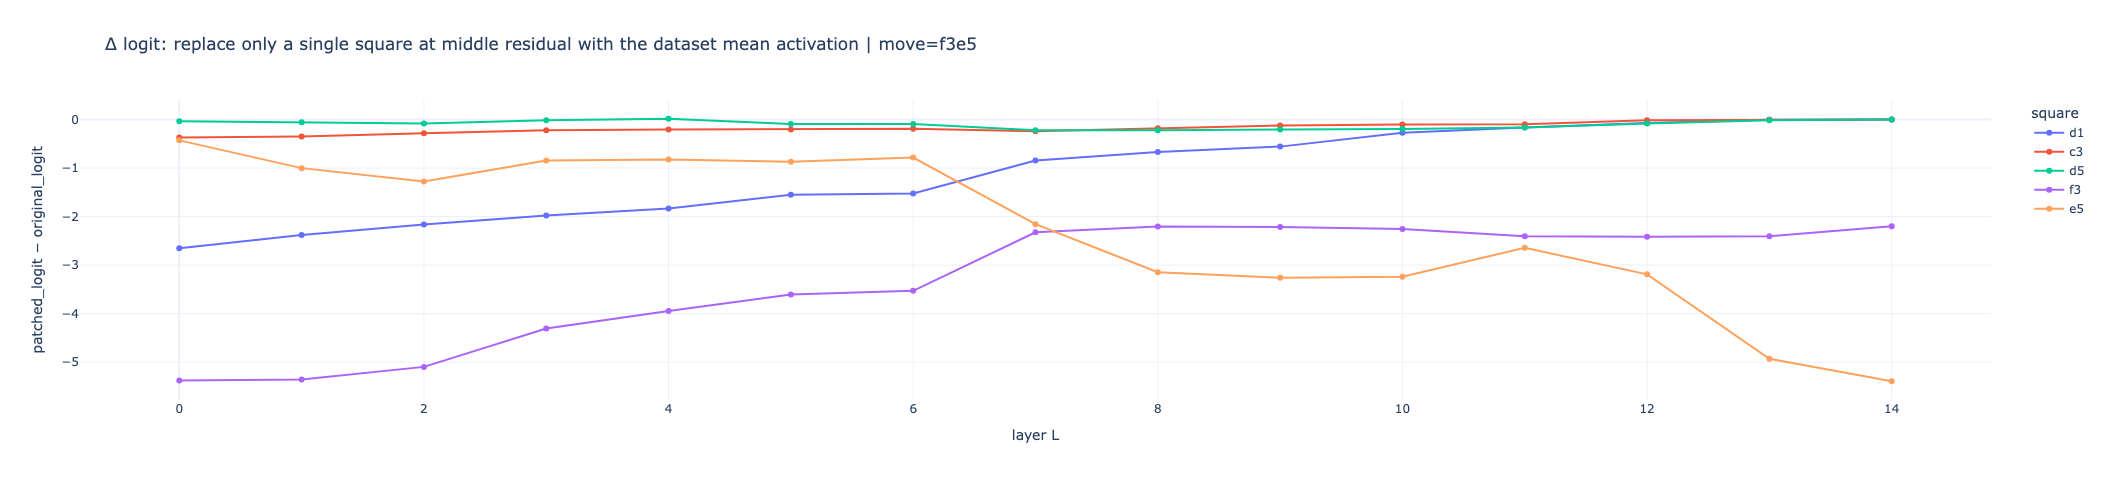
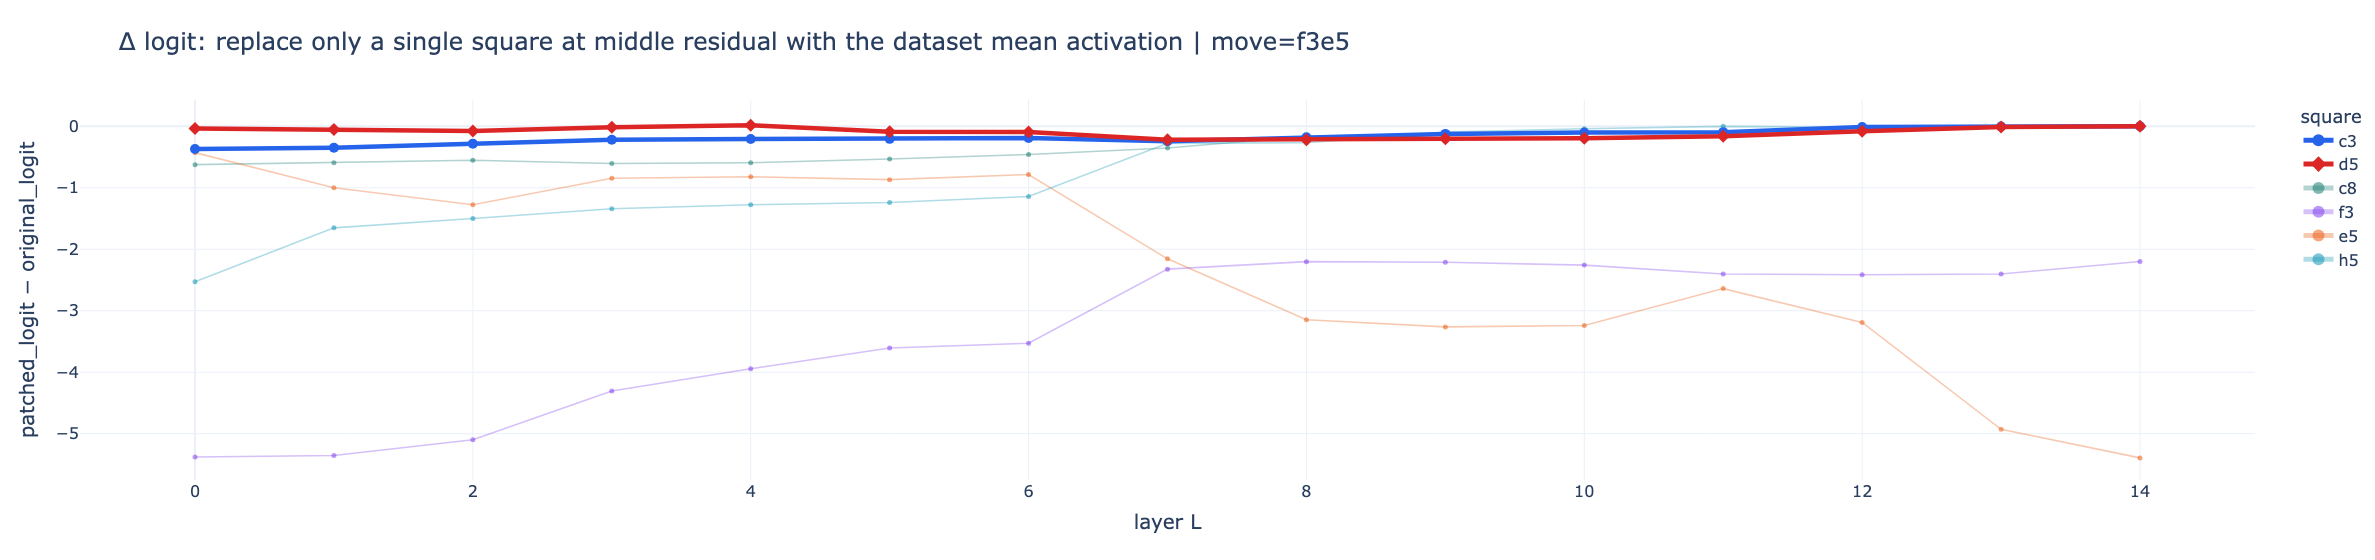
Add ablation of residual experiment and human annotation results.

diff --git a/README.md b/README.md
@@ -21,12 +21,20 @@
 - The pathway reflects anticipation of the response Qe7
 - We find features encoding files where an own rook/queen is blocked by a pawn, but becomes exposed to threaten the opponent king/queen after a diagonal pawn capture. It serves to open up a file for the rook/queen.
 
+**Experiment**
 
-
-At each layer, we replace the middle residual stream at the token corresponding to a given square with the dataset mean activation, to quantify how much that square matters for the move logit. The result is shown below:
+For each layer, we replace the middle residual stream at the token position corresponding to a given square with the dataset mean activation, to measure how strongly that square affects the move logit. The result is shown below:
 
 <p align="center">
-  <img src="figures/resid_mid_ablation.png" alt="Middle residual ablation experiment" width="700" />
+  <img src="figures/resid_mid_ablation.png" alt="Middle residual ablation experiment" width="800" />
 </p>
 
-d1 has a large effect on the Ne5 logit in early layers, whereas c3 (knight) has almost no effect across layers. This aligns with the reasoning pathway: the token position for c3 does not play a major role in the logit.
+Squares such as f3 (source square), e5 (target square), and h5 (queen) have a large effect on the logit of Ne5 in early layers, whereas c3 (knight) has almost no effect across layers. This is consistent with the reasoning pathway: the token position for c3 does not play a major role in determining the logit.
+
+## Human interpretability evaluation
+
+We use three human annotators to label our features for activation consistency and complexity, as shown below.
+
+<p align="center">
+  <img src="figures/annotation.png" alt="Human annotation interface" width="900" />
+</p>
